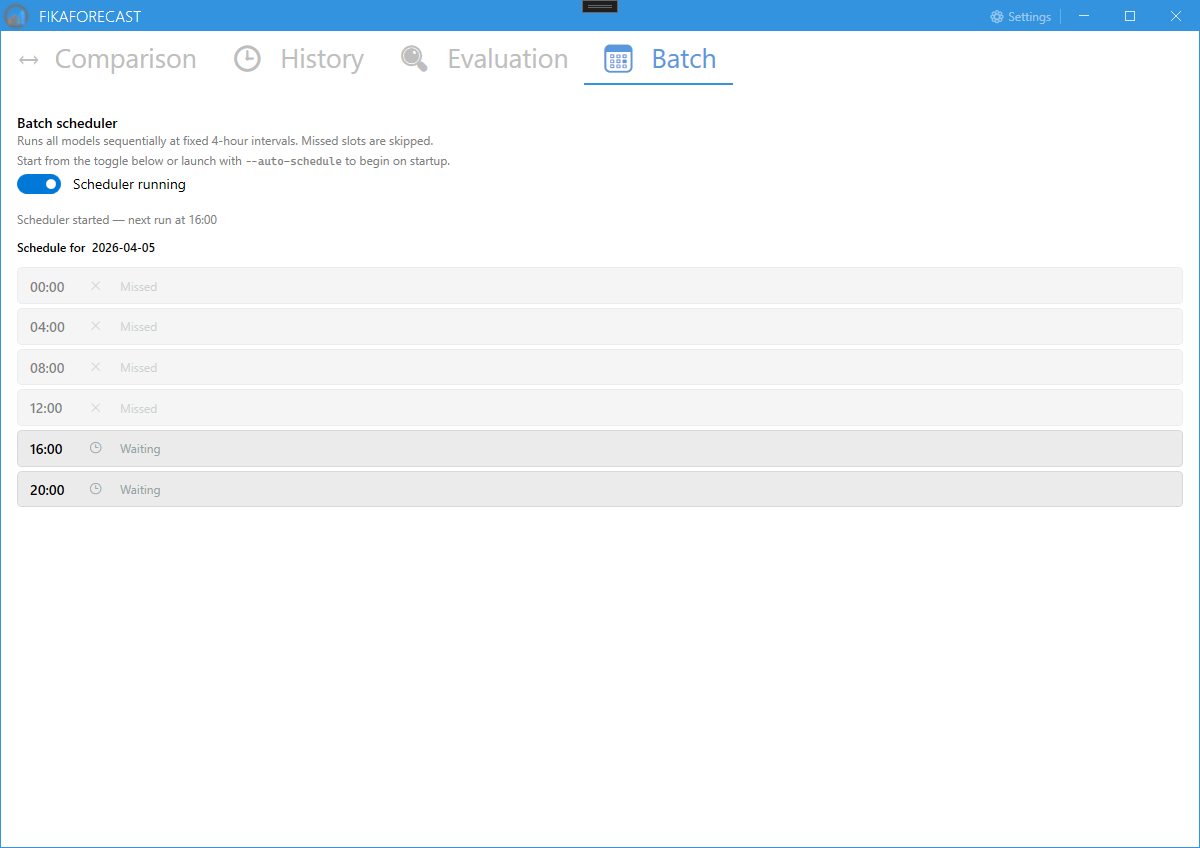
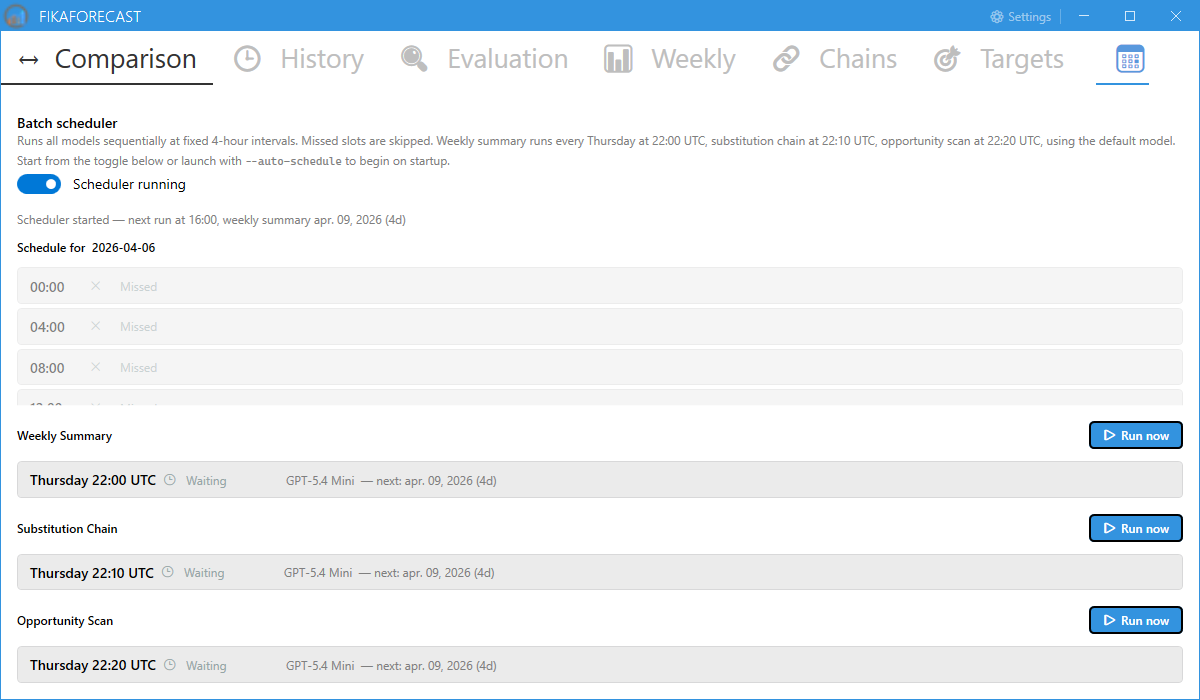
Update README: Reorganize sections, include new analysis steps, and add missing assets.

diff --git a/README.md b/README.md
@@ -6,6 +6,12 @@
 
 > Continuation of [SemanticKernel-FundDocsQnA-dotnet-nextjs](https://github.com/Muhomorik/SemanticKernel-FundDocsQnA-dotnet-nextjs) — shares the same backend (ASP.NET Core Web API, RAG over fund documents, function calling against Azure SQL).
 
+### [FikaForecast](FikaForecast/)
+
+A WPF desktop app that runs AI agents to analyze financial markets. Compares how different LLMs perform on the same market analysis task using Microsoft Agent Framework and Azure AI Foundry.
+
+![FikaForecast in action](FikaForecast/docs/ANIMATION_OVERVIEW.gif)
+
 ## Roadmap
 
 Continuous hypothesis evaluation using event-driven multi-agent architecture on Azure AI Foundry.
@@ -42,15 +48,6 @@ Continuous hypothesis evaluation using event-driven multi-agent architecture on 
 - [ ] **Step 7 — Deploy as frontend to Azure**
   - [ ] Web frontend on Azure Static Web Apps
 
-## Projects
-
-This repo is a monorepo — each step in the roadmap lives in its own project folder.
-
-### [FikaForecast](FikaForecast/)
-
-A WPF desktop app that runs AI agents to analyze financial markets. Compares how different LLMs perform on the same market analysis task using Microsoft Agent Framework and Azure AI Foundry.
-
-![FikaForecast in action](FikaForecast/docs/ANIMATION_OVERVIEW.gif)
 
 **Features:** model comparison, batch scheduler (automated daily runs at 4-hour intervals), run history, evaluation agent, configurable prompts and models
 

diff --git a/FikaForecast/README.md b/FikaForecast/README.md
@@ -29,6 +29,33 @@ Schedule batch runs across all enabled models at fixed 4-hour intervals. Toggle 
 </details>
 
 <details>
+<summary><strong>Weekly summary — aggregate daily briefs</strong></summary>
+
+Step 2 of the pipeline. Aggregates 5–7 daily news briefs into a confidence-weighted weekly summary with net mood and recurring themes.
+
+![Weekly summary](docs/IMG_WEEKLY.png)
+
+</details>
+
+<details>
+<summary><strong>Substitution chains — follow the capital</strong></summary>
+
+Step 3 of the pipeline. Traces disruption chains to find where capital fleeing one sector flows toward another.
+
+![Substitution chains](docs/IMG_CHAINS.png)
+
+</details>
+
+<details>
+<summary><strong>Rotation targets — strongest destinations</strong></summary>
+
+Step 4 of the pipeline. Flags up to 3 strongest capital rotation destinations worth watching, with signal strength and risk caveats.
+
+![Rotation targets](docs/IMG_TARGETS.png)
+
+</details>
+
+<details>
 <summary><strong>Browse run history</strong></summary>
 
 All runs are persisted to SQLite. Filter by model, inspect past reports, delete old runs. Full markdown rendering in the detail pane.
